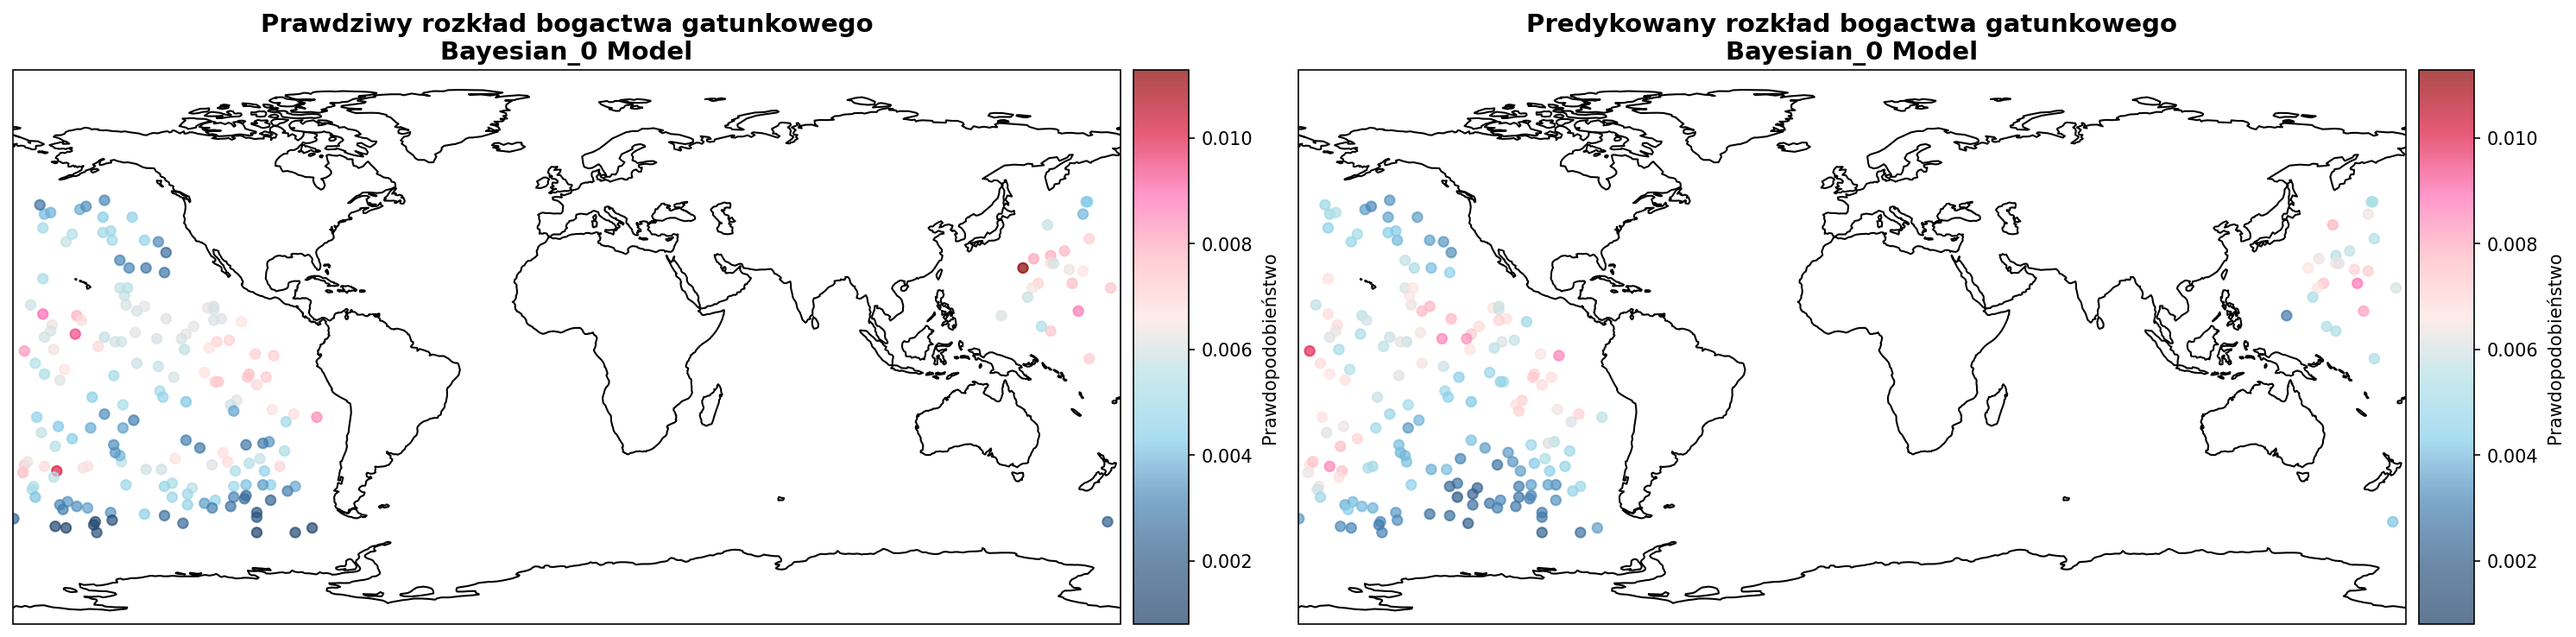
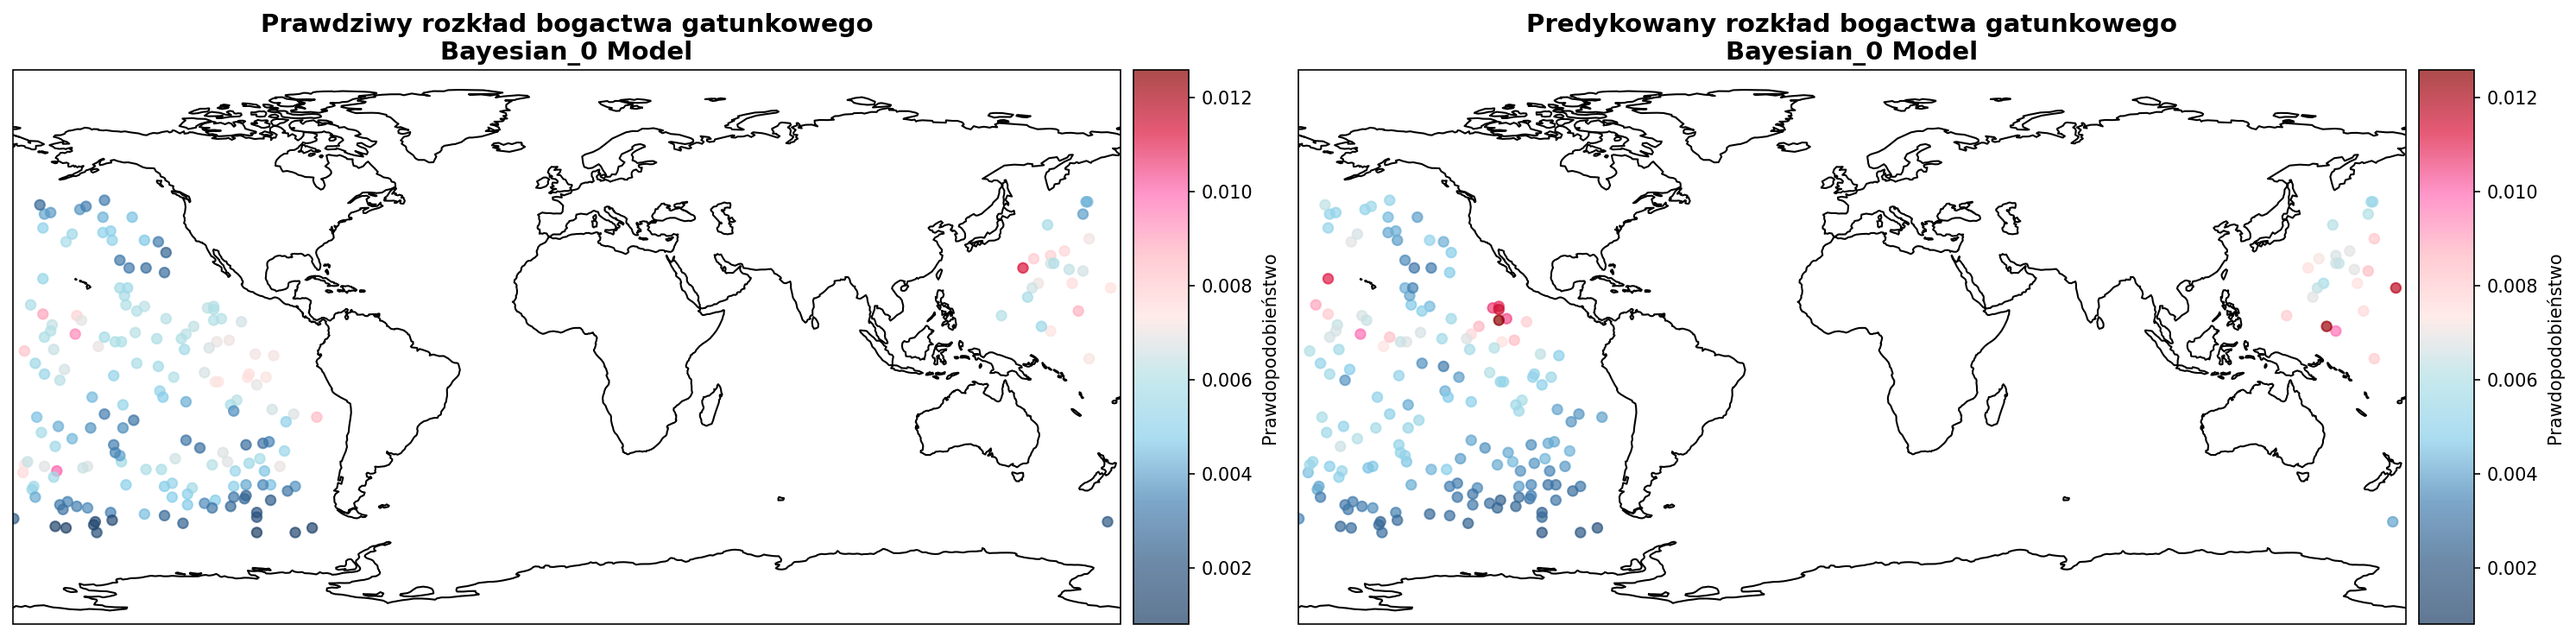
usuniecie map przy impact teście

diff --git a/BayesianModelSystem/TestMenager/test_manager.py b/BayesianModelSystem/TestMenager/test_manager.py
@@ -55,7 +55,7 @@ class TestManager:
         return self.cached_data
     
     def test(self, test_params, test_number=1, total_tests=1, 
-             models_to_test=None, save=False):
+             models_to_test=None, save=False,visualise=False):
         """
         Main testing function.
         """
@@ -275,7 +275,7 @@ class TestManager:
             
             self._print_test_summary(metrics, comparison_stats, duration)
             
-            if test_number == 1:
+            if visualise:
                 for model_name, pred in predictions.items():
                     stworz_mape_porownawcza(gdf, true_probs, pred, 
                                           f"{model_name.capitalize()} Model")
@@ -458,7 +458,7 @@ class TestManager:
                     else:
                         test_params[param_name] = values[-1]
             
-            result = self.test(test_params, i+1, n_tests, models_to_test, save)
+            result = self.test(test_params, i+1, n_tests, models_to_test, save,i==0)
             all_results.append(result)
             
             if i < n_tests - 1:

diff --git a/BayesianModelSystem/config/default_params.py b/BayesianModelSystem/config/default_params.py
@@ -56,7 +56,7 @@ def get_configuration():
            #      'mcmc_seed': 42
            #  }),
             ('logistic_normal_mcmc', {
-                'lengthscale': 750,
+                'lengthscale': 1750,
                 'variance': 1.0,
                 'distance_unit': "km",
                 'mcmc_samples': 5000,
